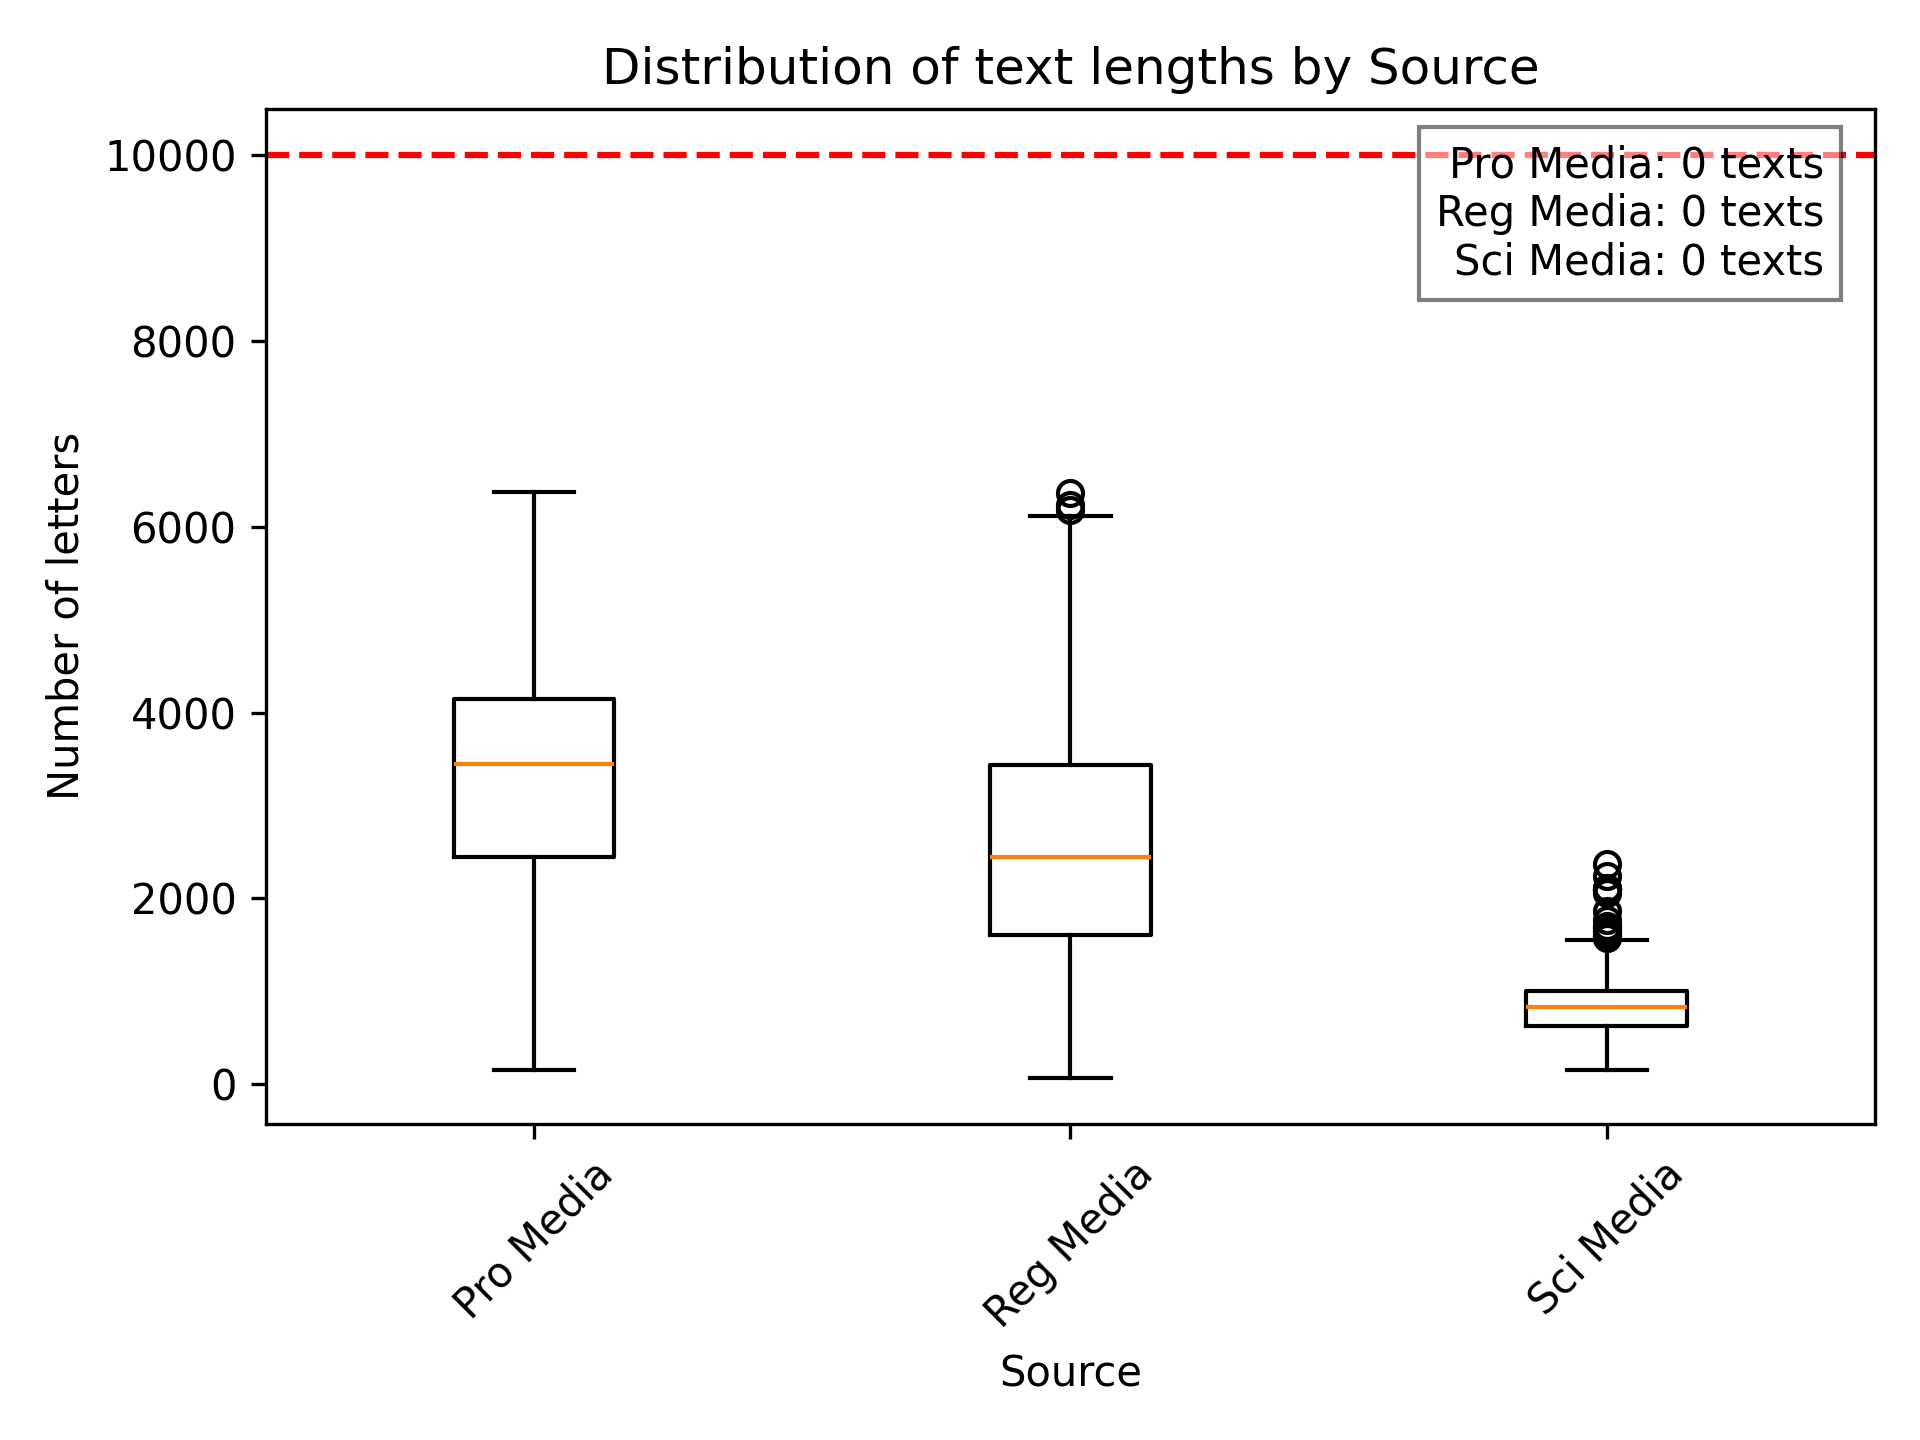
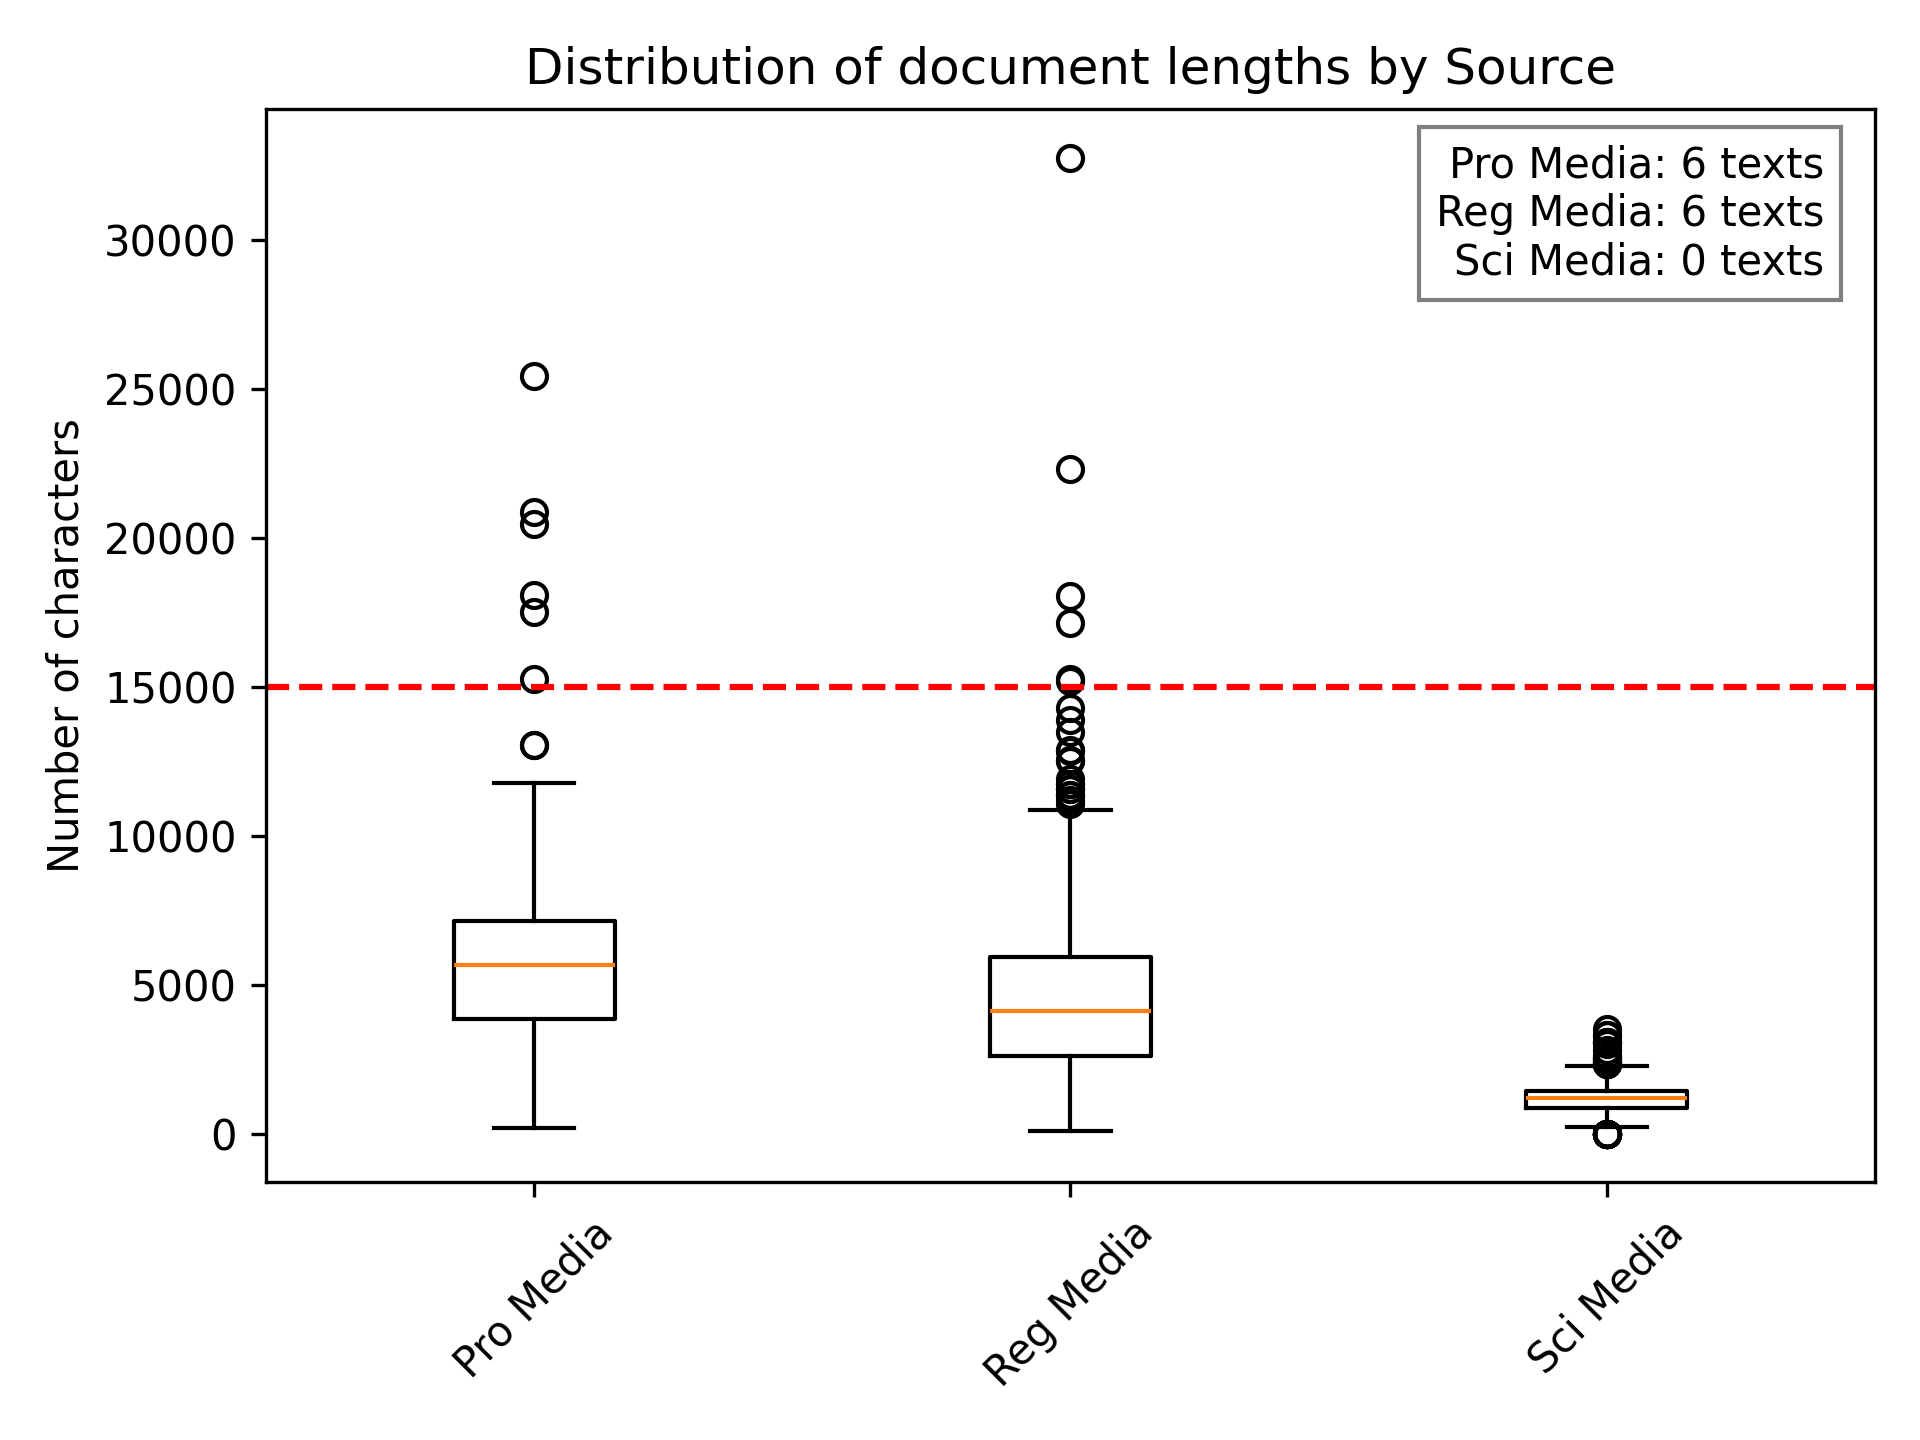
Chat implementations

diff --git a/evaluations/developments/GPTtests.py b/evaluations/developments/GPTtests.py
@@ -1,34 +1,87 @@
-# pip install azure-ai-inference azure-identity
-from azure.ai.inference import ChatCompletionsClient
-from azure.identity import DefaultAzureCredential
+#pip install openai
+from openai import OpenAI
+import yaml
+import pandas as pd
+with open('parameters.yaml', 'r') as file:
+    parameters = yaml.safe_load(file)
 
-# for serverless API or managed compute
[1 lines of base64/hex data omitted]
-endpoint = "https://admg-m830c1h3-swedencentral.cognitiveservices.azure.com/openai/deployments/gpt-4o"
+# OpenAI API key
+client = OpenAI(
 
-# Use Azure Active Directory (AAD) authentication
-credential = DefaultAzureCredential()
-
-endpointsclient = ChatCompletionsClient(
-    endpoint=endpoint,
-    credential=credential,
 )
 
-import os 
-from azure.ai.inference import ChatCompletionsClient 
-from azure.ai.inference.models import SystemMessage, UserMessage 
+#usage = 'topic_name'
+usage = 'resume'
 
-model_name = "gpt-4o" 
-client = ChatCompletionsClient(     
-    endpoint=endpoint,     
-    credential=credential, ) 
+k_means_path = 'evaluations/outputs/manualrun_merged_embeddings_XLM_Roberta_Kmeans.csv'
+texts_path = 'data/merged_media_stemmed_eng.csv'
 
-response = client.complete(     
-    messages=[  SystemMessage(content="You are a helpful assistant."),         
-                UserMessage(content="I am going to Paris, what should I see?")     ],     
-                max_tokens=4096,     
-                temperature=1.0,     
-                top_p=1.0,     
-                model=model_name ) 
+k_means = pd.read_csv(k_means_path)
+all_texts = pd.read_csv(texts_path)
 
-print(response.choices[0].message.content)
+# Get the distinct values of the 'topic_int' column
+n_clusters = k_means['topic_int'].unique()
+
+# Sort the distinct values
+n_clusters.sort()
+
+# Create a list to store the results
+results = []
+
+for n_cluster in n_clusters:
+    print(f"Processing n_clusters: {n_cluster}")
+    
+    cluster_texts = all_texts[k_means['topic_int'] == n_cluster]
+
+    not_cluster_texts = all_texts[k_means['topic_int'] != n_cluster].sample(frac=0.05, random_state=parameters['random_state'])
+
+    # append all texts together in one string and save it to a variable
+    Not_cluster_texts = ' \n'.join(not_cluster_texts['Content'].astype(str).tolist())
+    joined_cluster_texts = ' \n'.join(cluster_texts['Content'].astype(str).tolist())
+
+    if usage == 'topic_name':
+
+        completion = client.chat.completions.create(
+            model="gpt-4o-mini",
+            store=True,
+            messages=[
+                {"role": "system", "content": "You have to act like a topic model. You are first being fed a group of documents that are appended together in a string"},
+                {"role": "user", "content": Not_cluster_texts},
+                {"role": "system", "content": "Once you have read all the documents, then i will feed you a selected group of the documents. Read these as well and come up with a topic name that differentiates these documents from the rest"},  # System prompt
+                {"role": "system", "content": "You are not allowed to write anything else than the topic name, just a topic name consisting of max 3 words"}, 
+                {"role": "user", "content": joined_cluster_texts}
+            ],
+            max_tokens=10000
+        )
+
+        topic_name = completion.choices[0].message.content
+        print(f'{n_cluster}: {topic_name}')
+        
+        # Append the cluster and topic name to the results list
+        results.append({"Cluster": n_cluster, "Topic Name": topic_name})
+
+    elif usage == 'resume':
+        completion = client.chat.completions.create(
+            model="gpt-4o-mini",
+            store=True,
+            messages=[
+            {"role": "system", "content": "You have to act like a summarization model. You are first being fed a group of documents that are appended together in a string."},
+            {"role": "user", "content": Not_cluster_texts},
+            {"role": "system", "content": "Once you have read all the documents, then I will feed you a selected group of the documents. Read these as well and generate a concise summary that captures the essence of these documents."},  # System prompt
+            {"role": "system", "content": "You are not allowed to write anything else than the summary, just a concise summary of max 100 words."}, 
+            {"role": "user", "content": joined_cluster_texts}
+            ],
+            max_tokens=10000
+        )
+
+        summary = completion.choices[0].message.content
+        print(f'{n_cluster}: {summary}')
+        
+        # Append the cluster and summary to the results list
+        results.append({"Cluster": n_cluster, "Summary": summary})
+
+# Save the results to a CSV file
+output_path = f'evaluations/developments/cluster_{usage}.csv'
+pd.DataFrame(results).to_csv(output_path, index=False)
+
+print(f"Results saved to {output_path}")

diff --git a/preprocessing/Distribution_text_lengths.py b/preprocessing/Distribution_text_lengths.py
@@ -1,7 +1,38 @@
 import pandas as pd
 
+import yaml
+with open('parameters.yaml', 'r') as file:
+    parameters = yaml.safe_load(file)
+
+
+# Define limit 
+
+Number_characters = 15000
 # Load the data file for the merged documents
-df_file = pd.read_csv('data/merged_media_stemmed_eng.csv')
+pro_media_df = pd.read_csv(parameters['pro_media_translated_dir'])
+reg_media_df = pd.read_csv(parameters['reg_media_translated_dir'])
+sci_media_df = pd.read_csv(parameters['sci_media_dir'])
+
+# Define the columns to keep from each dataframe
+pro_media_columns = ['Date', 'Title', 'Outlet', 'Content']  # Replace with actual column names
+reg_media_columns = ['Date', 'Title', 'Outlet', 'Content']  # Replace with actual column names
+sci_media_columns = ['Date', 'Title', 'Outlet', 'Content']  # Replace with actual column names
+
+# Select the specified columns from each dataframe
+pro_media_df = pro_media_df[pro_media_columns]
+reg_media_df = reg_media_df[reg_media_columns]
+sci_media_df = sci_media_df[sci_media_columns]
+
+# Add a column to determine the source of the text
+pro_media_df['Source'] = 'Pro Media'
+reg_media_df['Source'] = 'Reg Media'
+sci_media_df['Source'] = 'Sci Media'
+
+# Rename columns to have the same names for merging
+pro_media_df.columns = reg_media_df.columns
+
+# Merge the dataframes
+df_file = pd.concat([pro_media_df, reg_media_df, sci_media_df])
 
 cluster_texts = df_file['Content'].astype(str).tolist()
 Cluster_source = df_file['Source']
@@ -22,22 +53,22 @@ source_text_lengths = [df_file[df_file['Source'] == source]['text_lengths'].toli
 # How many texts within each source have more than 10000 letters?
 for source in sources:
     source_texts = df_file[df_file['Source'] == source]['text_lengths']
-    count = len([length for length in source_texts if length > 10000])
-    print(f"Source '{source}' has {count} texts with more than 10000 letters.")
+    count = len([length for length in source_texts if length > Number_characters])
+    print(f"Source '{source}' has {count} texts with more than {Number_characters} letters.")
 
 # Create boxplot
 plt.boxplot(source_text_lengths, labels=sources)
-plt.title('Distribution of text lengths by Source')
-plt.xlabel('Source')
-plt.ylabel('Number of letters')
+plt.title('Distribution of document lengths by Source')
+#plt.xlabel('Source')
+plt.ylabel('Number of characters')
 plt.xticks(rotation=45)  # Rotate x-axis labels for better readability
 
 # Add a horizontal line at 10000 letters
-plt.axhline(y=10000, color='red', linestyle='--', label='10000 letters')
+plt.axhline(y=Number_characters, color='red', linestyle='--', label='{Number_characters} letters')
 
 # Add a text box with the number of texts with more than 10000 letters in each source
 text_box_content = "\n".join(
-    [f"{source}: {len([length for length in df_file[df_file['Source'] == source]['text_lengths'] if length > 10000])} texts"
+    [f"{source}: {len([length for length in df_file[df_file['Source'] == source]['text_lengths'] if length > Number_characters])} texts"
      for source in sources]
 )
 plt.gcf().text(0.95, 0.90, text_box_content, fontsize=10, verticalalignment='top', horizontalalignment='right', 
@@ -45,5 +76,20 @@ plt.gcf().text(0.95, 0.90, text_box_content, fontsize=10, verticalalignment='top
 
 plt.tight_layout()  # Adjust layout to prevent clipping
 plt.savefig('preprocessing/text_lengths_distribution.png', dpi=300)
+
+# Print the number of totalt texts for each source and the number of texts with more than 10000 letters
+for source in sources:
+    total_count = len(df_file[df_file['Source'] == source])
+    print(f"Source '{source}' has {total_count} texts in total.")
+    count = len([length for length in df_file[df_file['Source'] == source]['text_lengths'] if length > Number_characters])
+    print(f"Source '{source}' has {count} texts with more than {Number_characters} letters.")
+
+# What is the total number of texts in the dataset?
+total_texts = len(df_file)
+print(f"Total number of texts in the dataset: {total_texts}")
+
+# What is the total number of texts with less than 10000 letters in the dataset?
+total_texts_less_than_limit = len([length for length in df_file['text_lengths'] if length < Number_characters])
+print(f"Total number of texts with less than {Number_characters} letters in the dataset: {total_texts_less_than_limit}")
 
 

diff --git a/preprocessing/Clean_rows.py b/preprocessing/Clean_rows.py
@@ -11,6 +11,6 @@ def clean_rows(df):
     
     # remove all rows where the string in the content column contains more than 10000 letters
 
-    df = df[df['Content'].apply(lambda x: len(x) < 10000)]
+    df = df[df['Content'].apply(lambda x: len(x) < 15000)]
     
     return df
